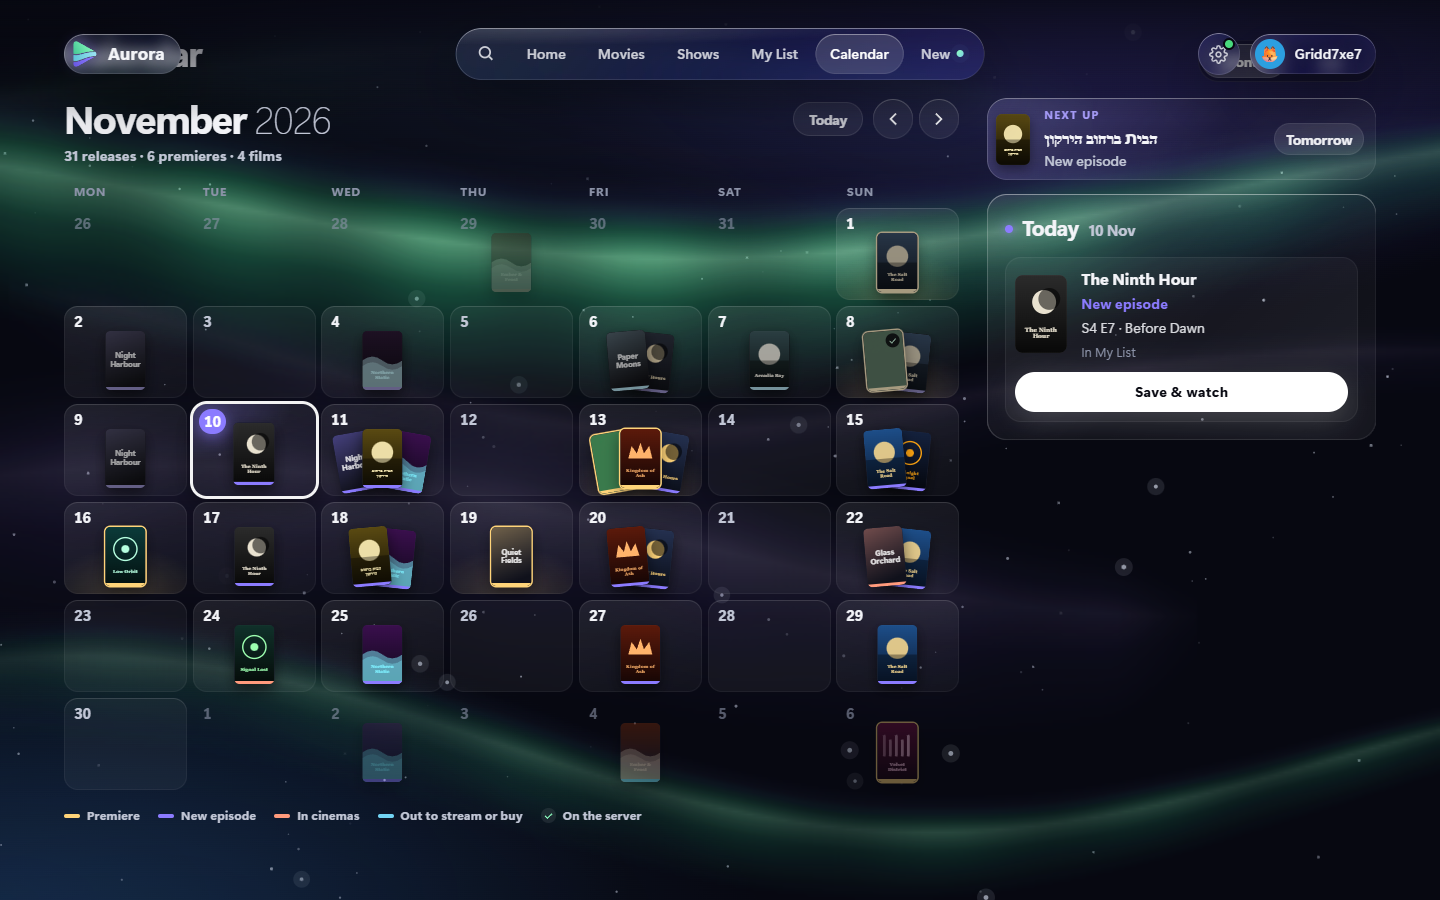
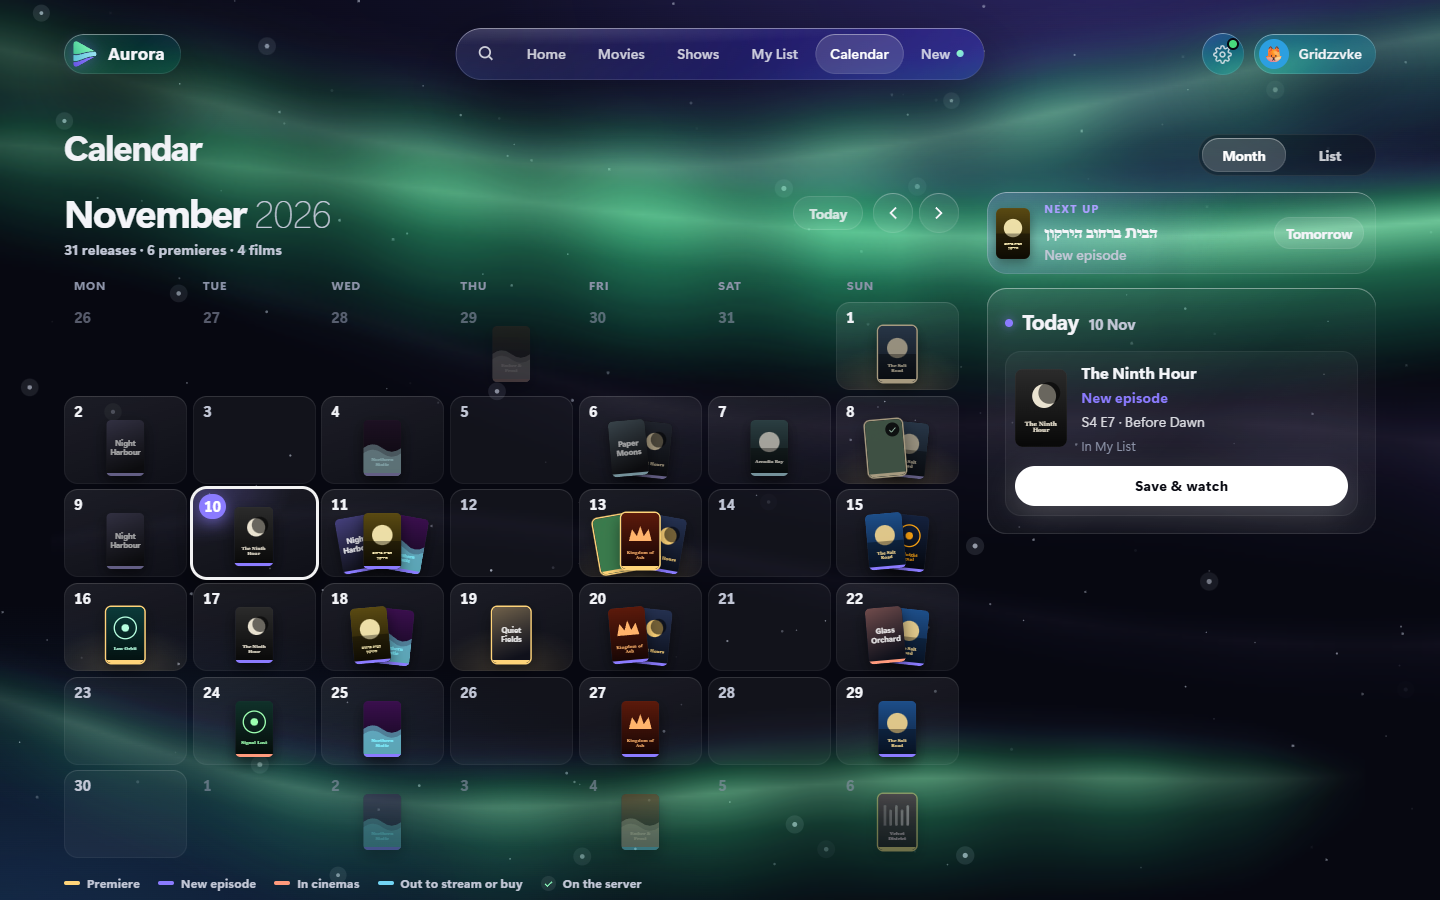
Calendar month: a six-week month and its legend fit 1440x900 at the top of the page (wider days 7:5), asserted with the title clear of the nav; QA shots retaken at scroll 0; empty-month card opaque; parity test: only the server counts a month's line

diff --git a/test/ui/calendar-grid.test.js b/test/ui/calendar-grid.test.js
@@ -115,6 +115,14 @@ ui.test("desktop: a real month — weekdays, the releases on their days, today m
   assert.match(await page.textContent("#app .calg-month"), /^[A-Z][a-z]+ \d{4}$/);
   await assertNoHorizontalOverflow(page, "desktop month");
   await page.click(`#app .calg-day[data-day="${dayKey(0)}"]`);
+  // at the top of the page, as it opens: the whole month and its legend in a 1440 × 900 window
+  await page.evaluate(() => window.scrollTo(0, 0));
+  await page.waitForFunction(() => (window.scrollY || document.body.scrollTop || 0) === 0);
+  const legendBottom = await page.$eval("#app .calg-legend", (n) => n.getBoundingClientRect().bottom);
+  assert.ok(legendBottom <= 900, `the month and its legend fit 1440 × 900 (legend ends at ${legendBottom})`);
+  const head = await page.$eval("#app .cal-head h1", (n) => n.getBoundingClientRect().top);
+  const nav = await page.$eval("#nav", (n) => n.getBoundingClientRect().bottom).catch(() => 0);
+  assert.ok(head >= nav, `the page title (${head}) starts under the nav (${nav}), not behind it`);
   await shot(page, "1440-glass");
 });
 
@@ -300,6 +308,7 @@ ui.test("768 px and the classic look: one column, the day's releases under the m
   await open(h, p);
   assert.ok(await page.$("#app .calg-sheet.fan"), "wide days fan their posters");
   await assertNoHorizontalOverflow(page, "768");
+  await page.evaluate(() => window.scrollTo(0, 0));
   await shot(page, "768-legacy");
 });
 
@@ -308,6 +317,7 @@ ui.test("1440 px, the classic look", { viewport: WIDE }, async (h) => {
   const p = await filled(api, lib, "legacy");
   await open(h, p);
   await assertNoHorizontalOverflow(page, "1440 legacy");
+  await page.evaluate(() => window.scrollTo(0, 0));
   await shot(page, "1440-legacy");
 });
 

diff --git a/test/calendar-grid-parity.test.js b/test/calendar-grid-parity.test.js
@@ -82,3 +82,14 @@ test("the website's helpers hold the apps' cases", async () => {
   const c = cellOf(cal(["2026-11-09"]).grid, "2026-11-09", "2026-11", "2026-11-09");
   assert.deepEqual([c.n, c.inMonth, c.past, c.today, c.items.length], [9, true, false, true, 1]);
 });
+
+test("a month's line (9 releases · 2 premieres · 1 film) is counted once, by the server; every client prints it as sent", () => {
+  assert.match(read("src/media/calendar.js"), /const monthLine = /);
+  const code = (f) => read(f).split(/\r?\n/).filter((l) => !/^\s*(\/\/|\*|\/\*)/.test(l)).join(" ");
+  for (const f of ["public/js/screens/calendar.js", "public/js/calgrid.js", "tv-native/src/calendar.ts", "tv-native/src/screens/CalendarMonth.tsx", "tv-native/src/phone/ui/CalendarGrid.tsx"]) {
+    assert.doesNotMatch(code(f), /\d+ releases?|\breleases?\b[^.]*`|plural|premieres/, `${f} does not count a month itself`);
+  }
+  for (const f of ["public/js/screens/calendar.js", "tv-native/src/screens/CalendarMonth.tsx", "tv-native/src/phone/ui/CalendarGrid.tsx"]) {
+    assert.match(code(f), /info && info.line/, `${f} prints the server's line`);
+  }
+});

diff --git a/public/css/components.css b/public/css/components.css
@@ -2406,7 +2406,8 @@ html[data-look="glass"] .hh-tabs .chip.on { background: rgba(255, 255, 255, 0.18
 .calg-day.has { background: rgba(255, 255, 255, 0.055); }
 /* a premiere's day: a little gold light from below */
 .calg-day.prem { background: radial-gradient(90% 70% at 50% 100%, rgba(255, 212, 121, 0.16), transparent 72%), rgba(255, 255, 255, 0.055); }
-@media (min-width: 1100px) { .fan .calg-day { aspect-ratio: 4 / 3; } }
+/* (a six-week month and its legend fit a 1440 × 900 window) */
+@media (min-width: 1100px) { .fan .calg-day { aspect-ratio: 7 / 5; } }
 .calg-day.other { background: transparent; }
 .calg-day.other::after { box-shadow: none; }
 .calg-day.off { cursor: default; }
@@ -2595,7 +2596,7 @@ html[data-look="glass"] .hh-tabs .chip.on { background: rgba(255, 255, 255, 0.18
   max-width: 380px;
   padding: 22px 24px;
   border-radius: var(--radius-l);
-  background: rgba(var(--bg-rgb), 0.97);
+  background: var(--bg-raised);
   box-shadow: inset 0 0 0 1px rgba(255, 255, 255, 0.09), 0 20px 50px rgba(0, 0, 0, 0.5);
   text-align: center;
   color: var(--text-dim);
